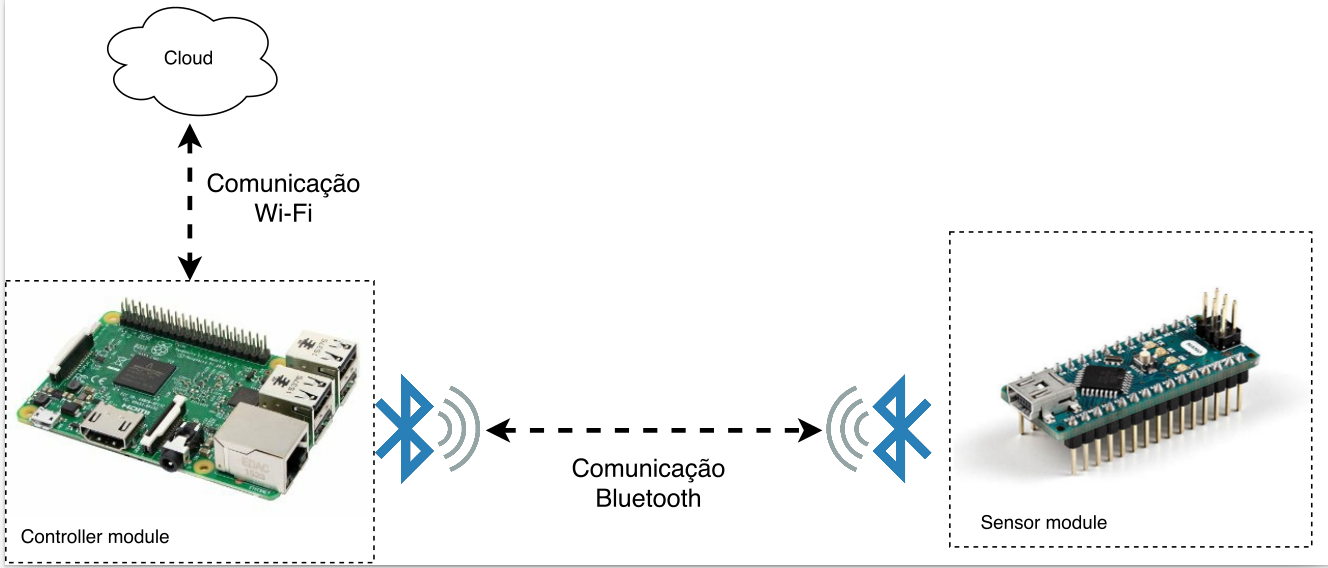
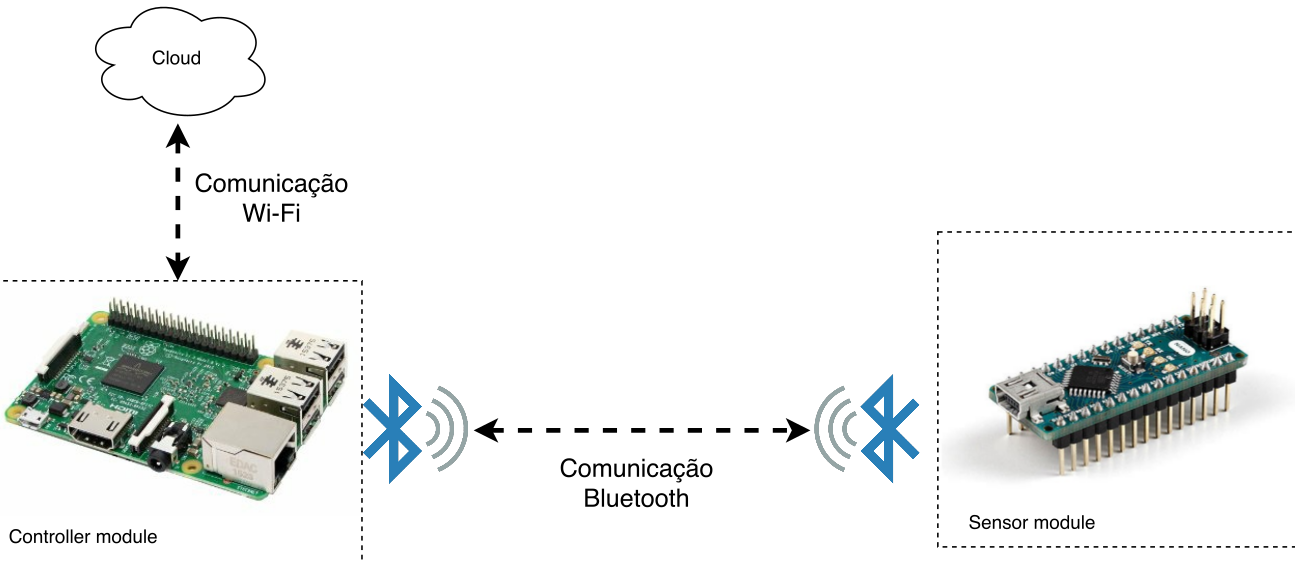
up

diff --git a/README.md b/README.md
@@ -1,11 +1,19 @@
-# sali-sensor
-Arduino sensores... 
+# Hardware simulation: salicornia 
+### overview
+
+![alt text](https://github.com/ruipoliveira/sali-sensor/blob/master/resources/comm.png)
 
 
+### Arduino Nano 
+
+* arduino code to receive data from sensors; interaction with bluetooth module
 
 ![alt text](https://github.com/ruipoliveira/sali-sensor/blob/master/resources/arduino.png)
 
+* legend: Arduino Nano (A), Módulo Bluetooth HC-06 (B), LED (C), Sensor de temperatura TTC 104 NTC (D), Sensor de luminosidade GL5528 (foto-resistência) (E), Sensor para nível de água (F)
 
 
+### Raspberry Pi 
 
-![alt text](https://github.com/ruipoliveira/sali-sensor/blob/master/resources/comm.png)
+* python script for bluetooth 4.0 communication with Bluetooth module HC-06; send data to API. 
+
